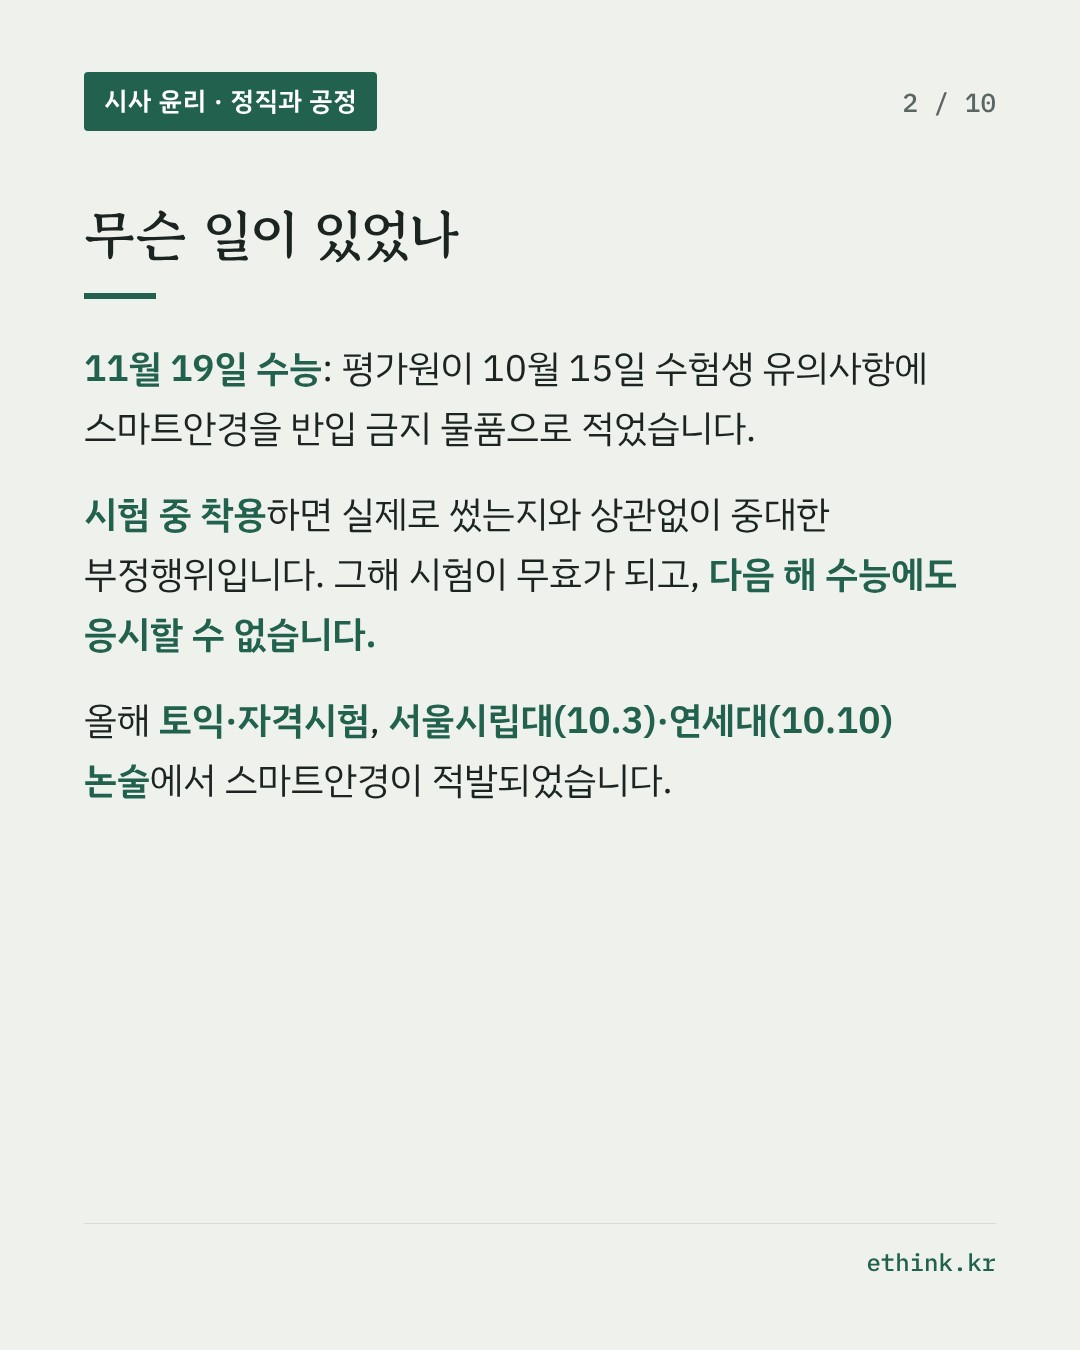
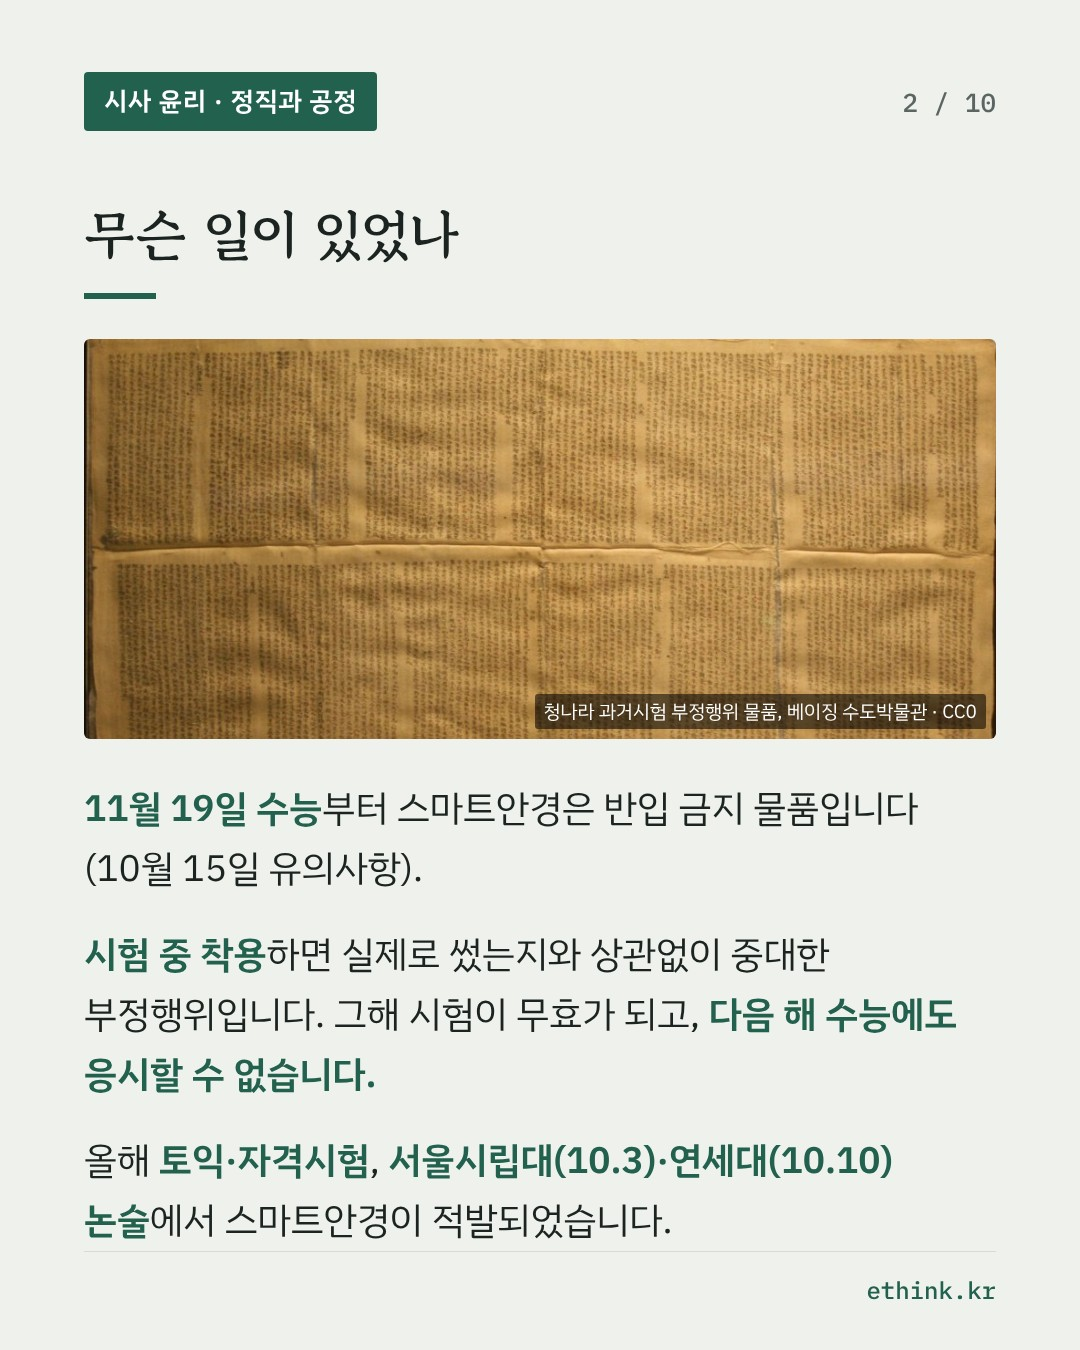
2026-10-27 글: 제목 수정(감독에게 들키지 않아도), 카드 표지를 구영 「관방도」로
Claude-Session: https://claude.ai/code/session_015bQvLW38M9G43q7XUxVD63

diff --git a/_items/2026-10-27/1.md b/_items/2026-10-27/1.md
@@ -3,7 +3,7 @@ date: 2026-10-27 09:00:00 +0900
 num: 1
 section: 정직과 공정
 kicker: 국내 · 10월 15일 수능 유의사항 공개
-title: 감독이 닿지 않아도 지켜야 하는 규칙, 수능 AI 안경 부정행위
+title: 감독에게 들키지 않아도 지켜야 하는 규칙, 수능 AI 안경 부정행위
 question: 들키지 않는다면, AI의 도움을 받아 시험을 쳐도 되는가?
 caution: 연세대 논술에서 적발된 수험생에 대한 조치는 아직 정해지지 않았습니다. 특정 수험생을 비난하는 데 머물지 말고, 시험 규칙과 감독의 한계를 함께 다룹니다. 수능을 앞둔 학생에게 부정행위를 하고 싶었던 경험이나 주변 사례를 말하게 하지 않습니다.
 subjects: [현대사회와 윤리 · 직업 생활과 윤리 · 정직과 공정, 윤리와 사상 · 서양 윤리 사상, 윤리와 사상 · 동양 윤리 사상, 인문학과 윤리 · 동양의 인간관]
